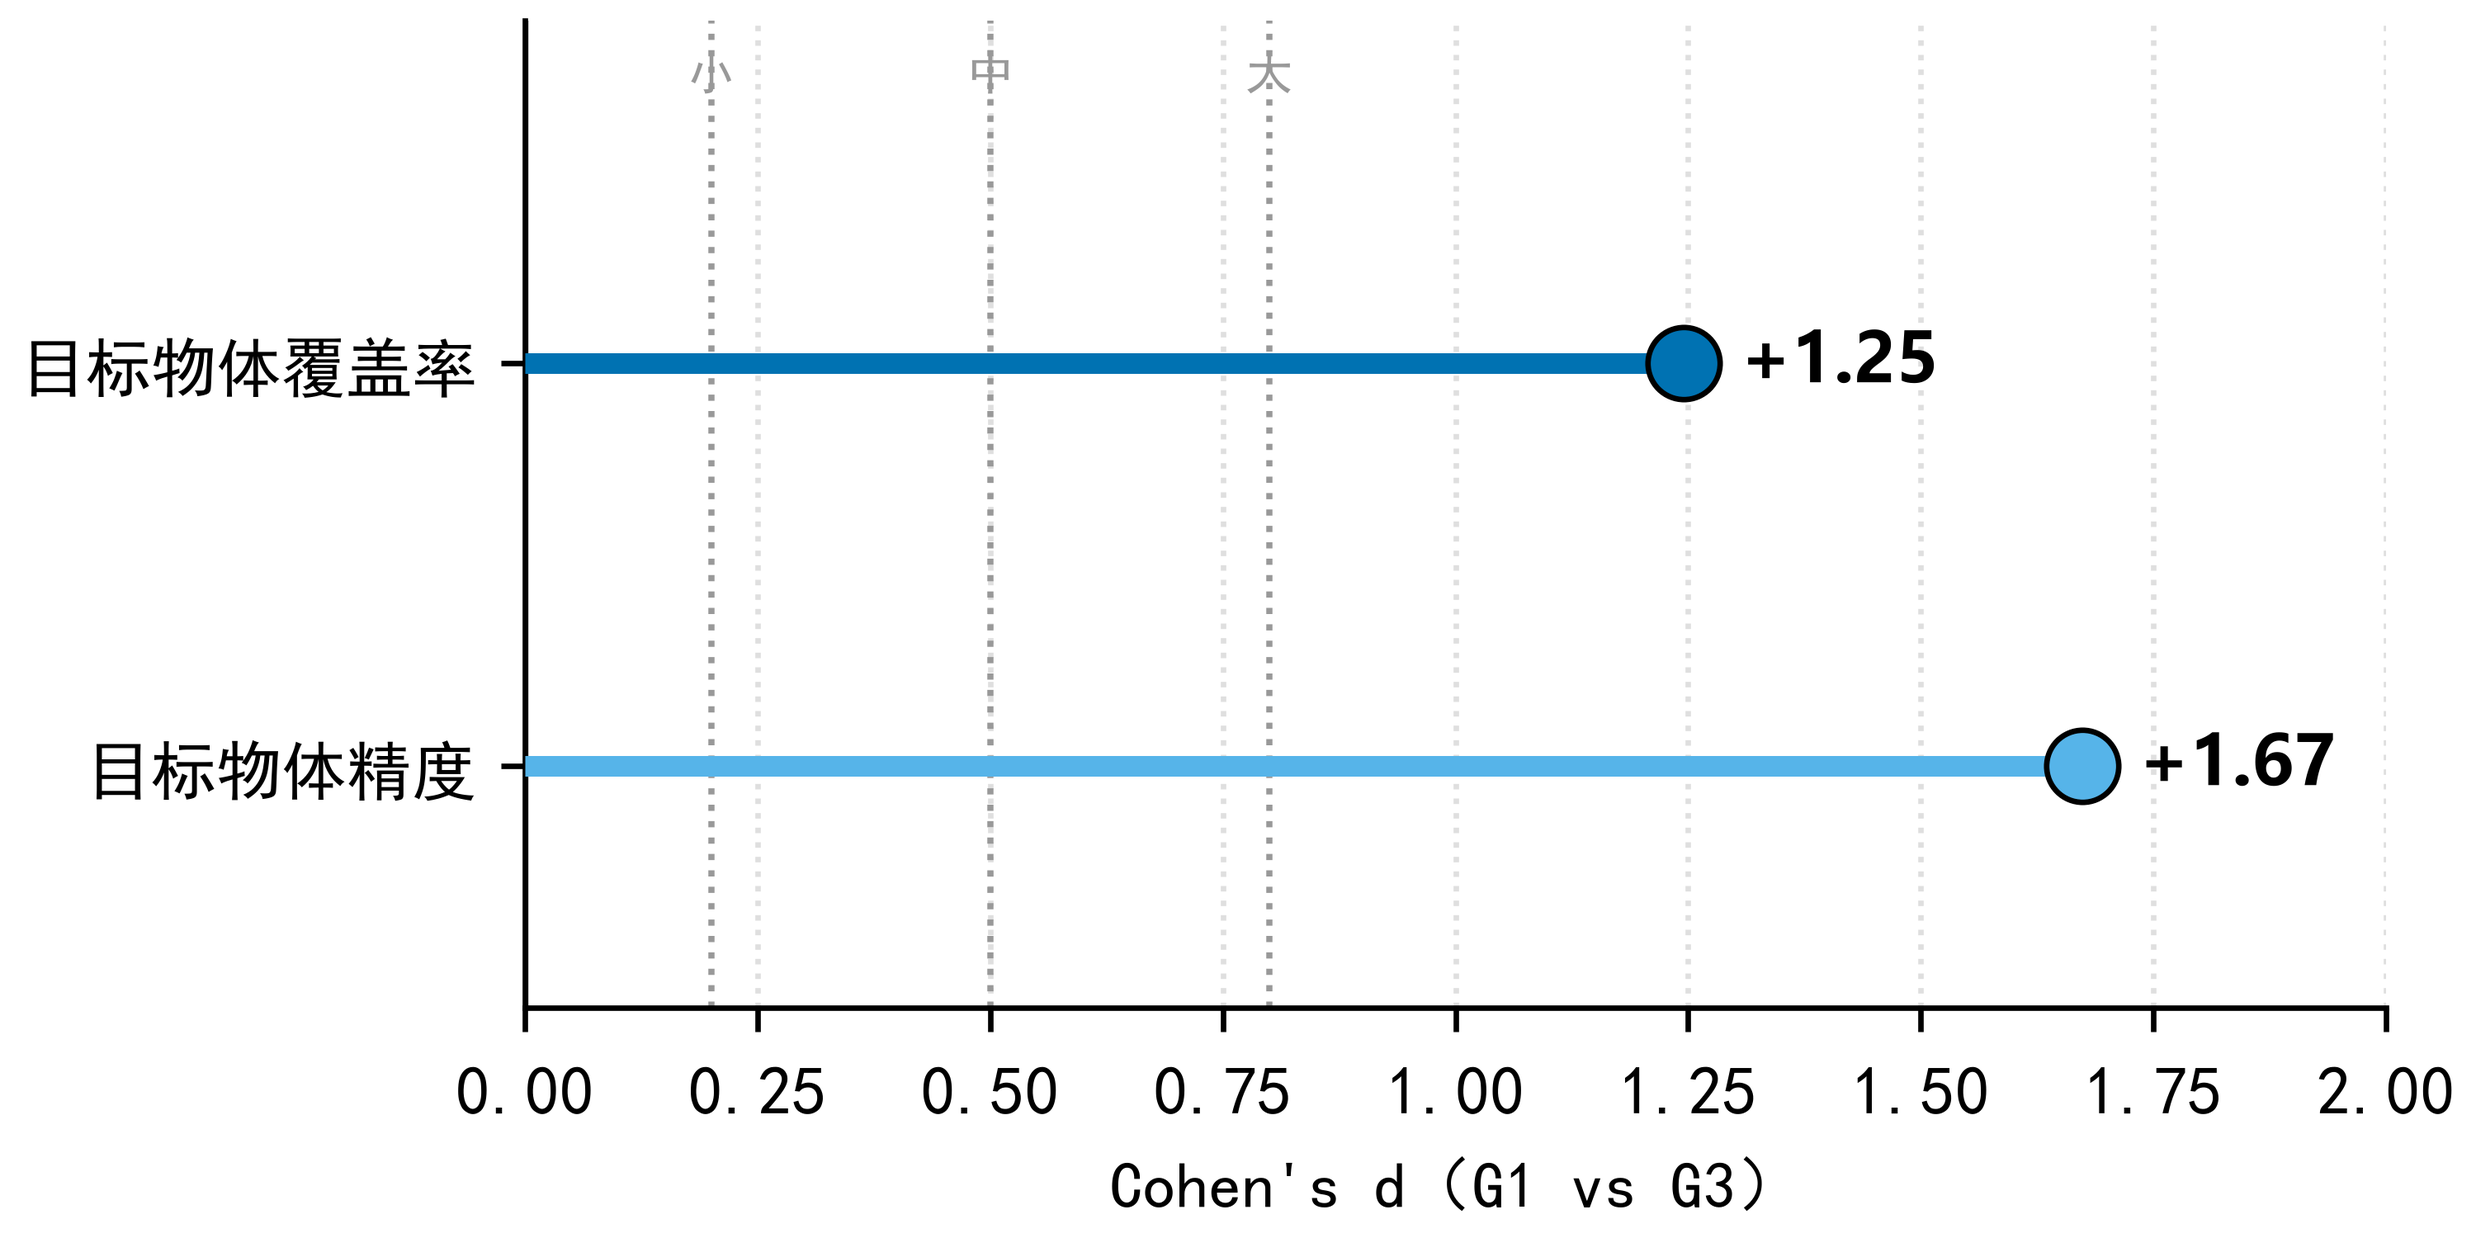
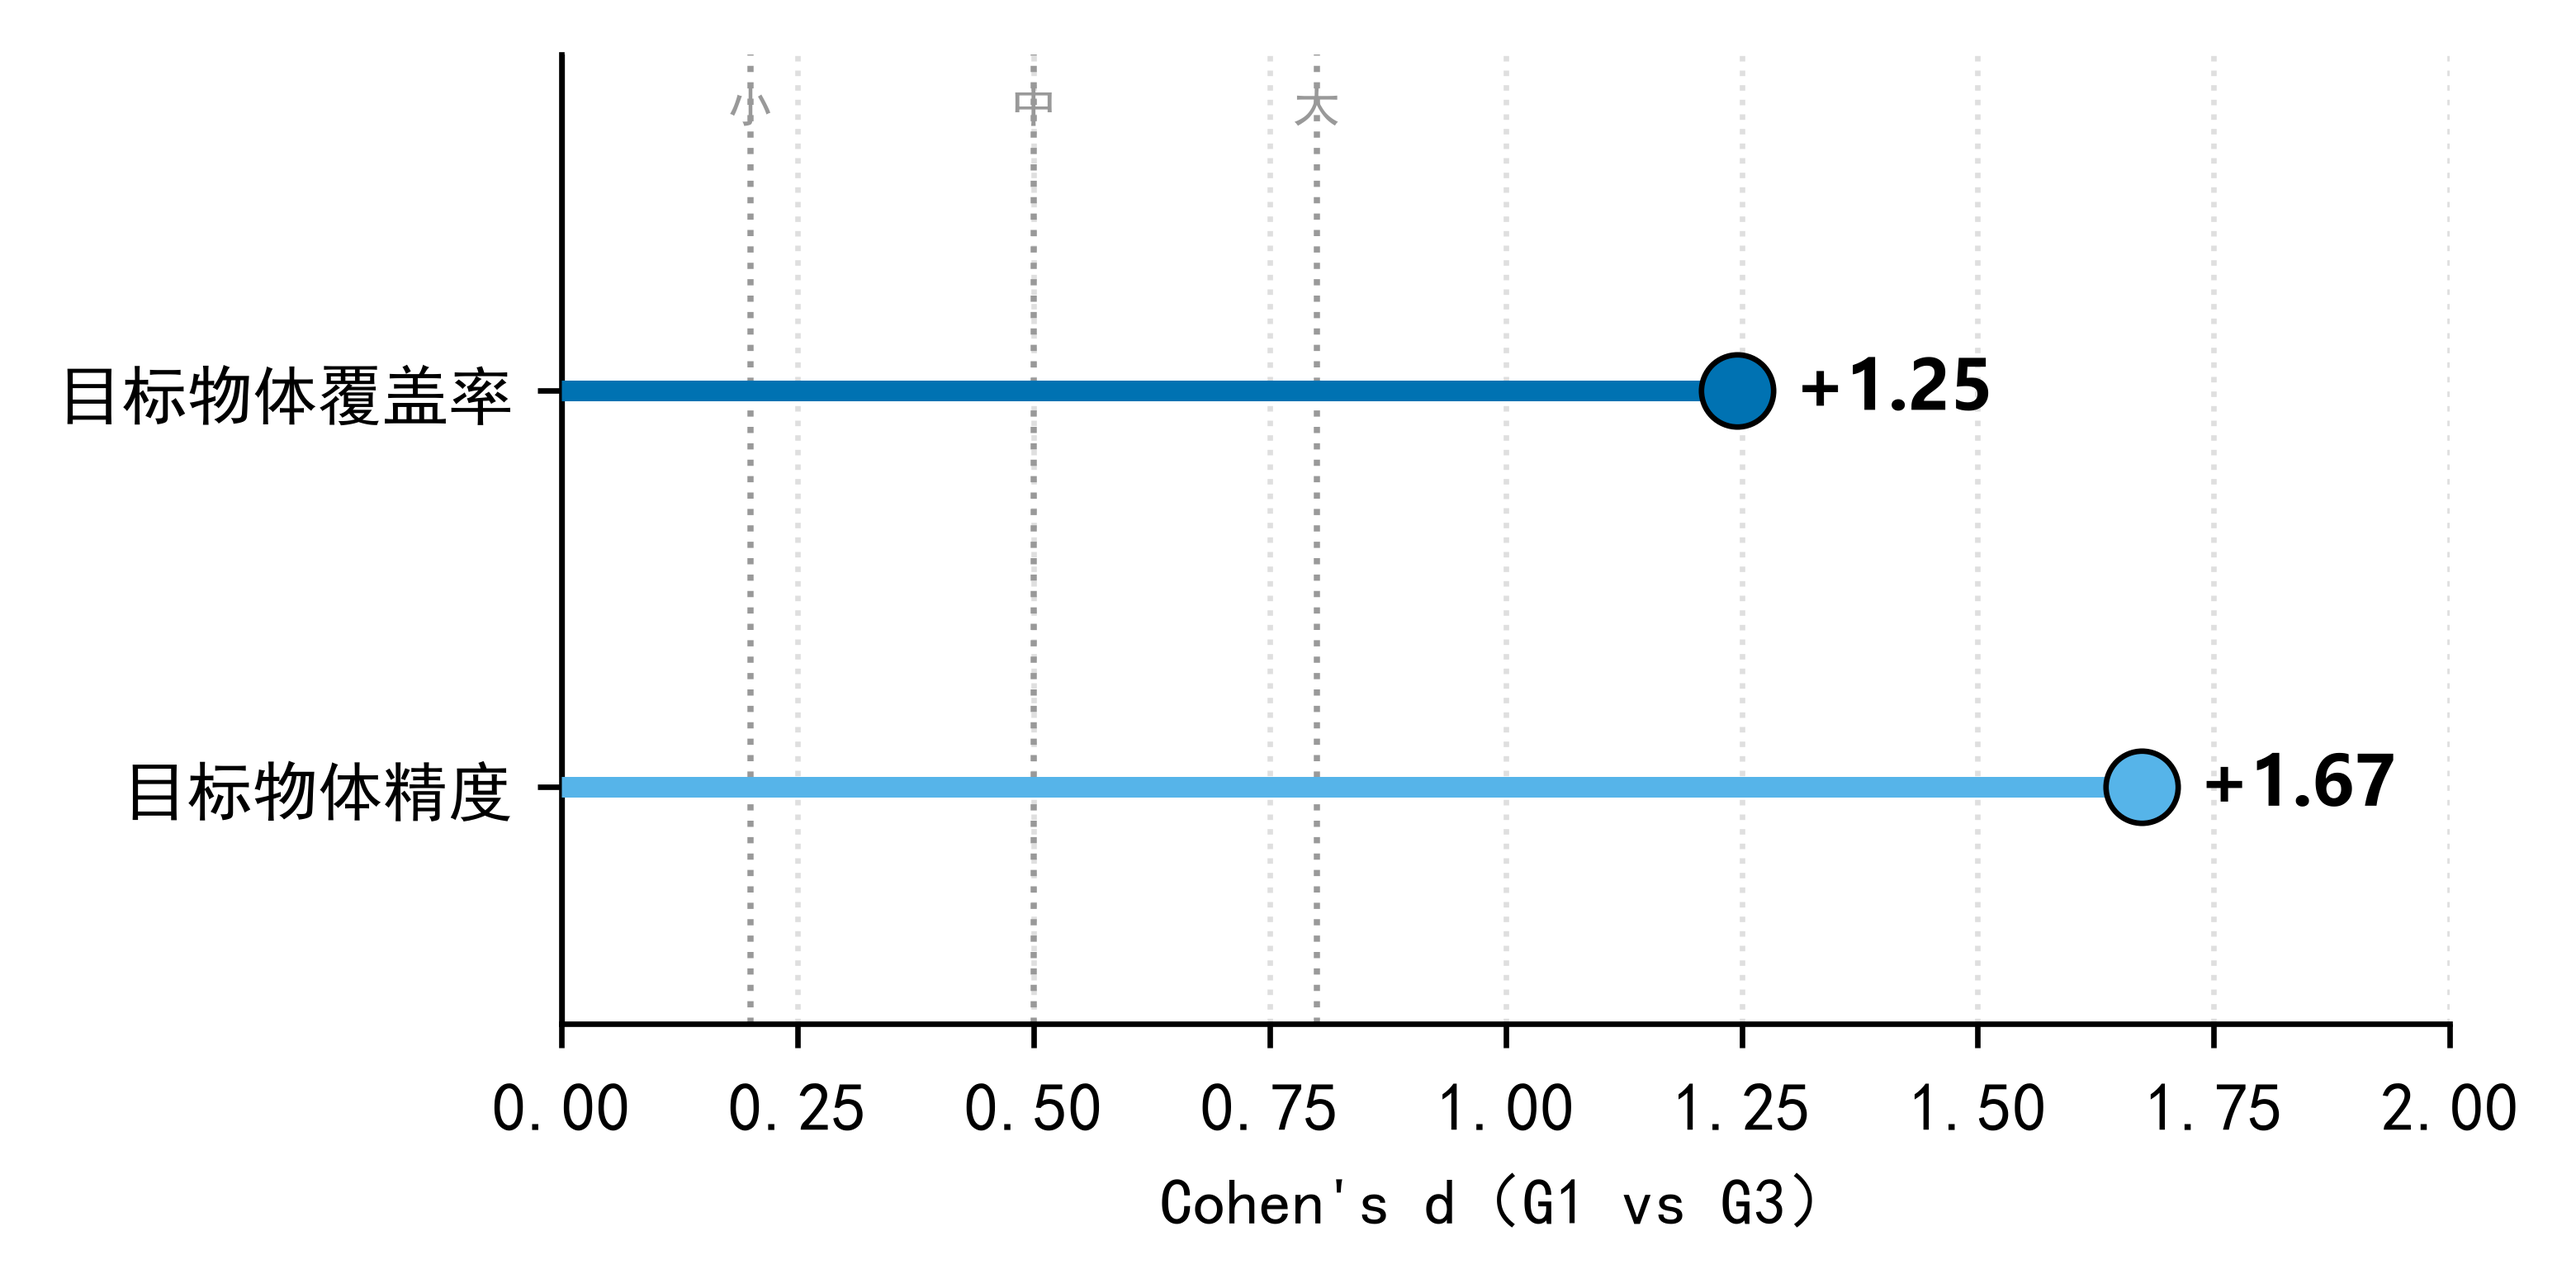
fix(figures): 修复图3共享图例被裁切(0mm→3.7mm) + 统一图4/5宽度 + 全图安全边距≥2.7mm

Changed region(s): [[0.0, 0.0307, 0.992, 0.9813], [0.496, 0.0307, 0.527, 0.1227], [0.372, 0.0307, 0.403, 0.092]]

diff --git a/scripts/make_fig345.py b/scripts/make_fig345.py
@@ -114,9 +114,12 @@ handles = [
     Line2D([], [], color="grey", marker="o", linestyle="none", markersize=5,
            markeredgecolor="black", label="单个冻结世界（n=9/组）"),
 ]
-# 共享图例置于两幅面板下方（横排），避免遮挡数据点
+# 共享图例置于两幅面板下方（横排），避免遮挡数据点。
+# 关键：用 layout engine 在画布底部预留 11% 空间，图例锚定在画布内，
+#       否则 bbox_to_anchor 负值会把图例推到画布外被裁掉。
+fig.get_layout_engine().set(rect=(0.012, 0.112, 0.976, 0.862))
 fig.legend(handles=handles, fontsize=7.5, frameon=False, ncol=3,
-           loc="lower center", bbox_to_anchor=(0.5, -0.045),
+           loc="lower center", bbox_to_anchor=(0.5, 0.016),
            handletextpad=0.6, columnspacing=1.6)
 
 _qa(fig, "fig3"); _gray(fig, "fig3")
@@ -126,7 +129,8 @@ plt.close(fig)
 print("fig3 done（stripplot）")
 
 # ============================================================ 图 4 效应量
-fig, ax = plt.subplots(figsize=(5.0, 2.5), constrained_layout=True)
+fig, ax = plt.subplots(figsize=(5.2, 2.6), constrained_layout=True)   # 与图4同宽 132mm，保持整套风格一致
+fig.get_layout_engine().set(rect=(0.014, 0.026, 0.972, 0.948))
 mets = ["目标物体精度", "目标物体覆盖率"]
 ds = [cohen_d(vals("B2", "M2_precision"), vals("B2A2", "M2_precision")),
       cohen_d(vals("B2", "M2_recall"), vals("B2A2", "M2_recall"))]
@@ -153,6 +157,7 @@ print("fig4 done（lollipop）")
 
 # ============================================================ 图 5 任务依赖性
 fig, ax = plt.subplots(figsize=(5.2, 3.4), constrained_layout=True)
+fig.get_layout_engine().set(rect=(0.014, 0.024, 0.972, 0.952))
 scenes = ["living_room", "basketball_court", "beach_sea"]
 snames = ["室内客厅", "户外篮球场", "沙滩与大海"]
 rs = np.random.RandomState(7)
